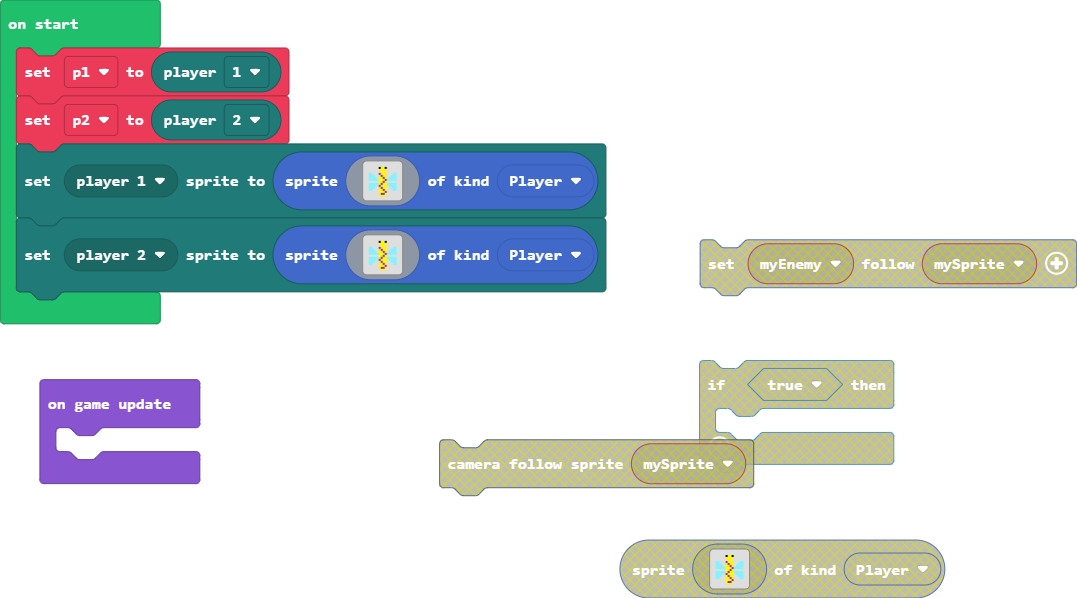
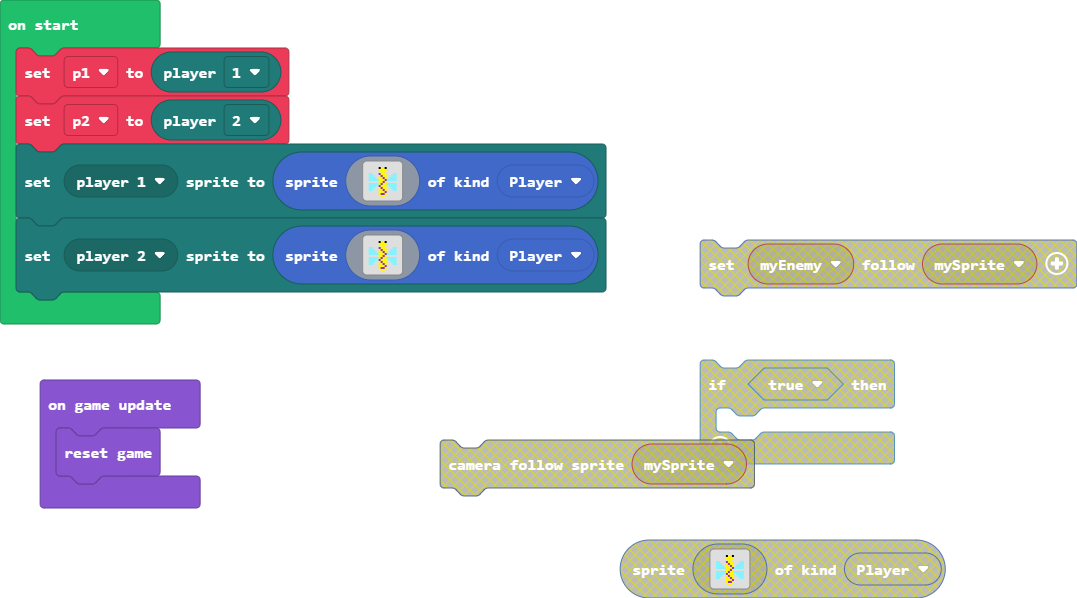
Update main.blocks, main.ts

diff --git a/main.ts b/main.ts
@@ -3,5 +3,5 @@ let p2 = mp.playerSelector(mp.PlayerNumber.Two)
 mp.setPlayerSprite(mp.playerSelector(mp.PlayerNumber.One), sprites.create(assets.image`Dragonfly`, SpriteKind.Player))
 mp.setPlayerSprite(mp.playerSelector(mp.PlayerNumber.Two), sprites.create(assets.image`Dragonfly`, SpriteKind.Player))
 game.onUpdate(function () {
-	
+    game.reset()
 })
